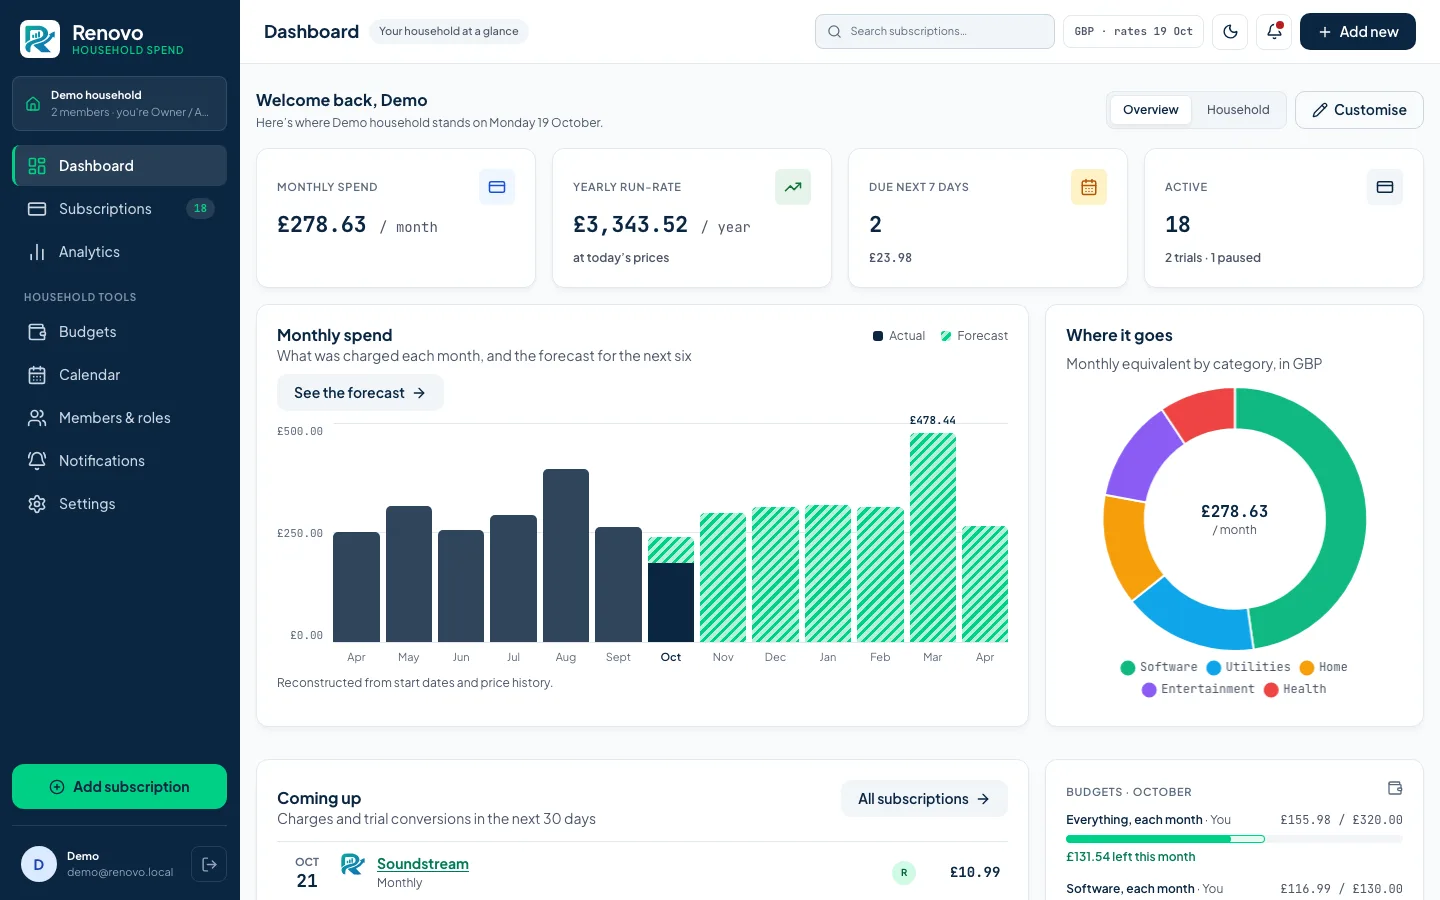
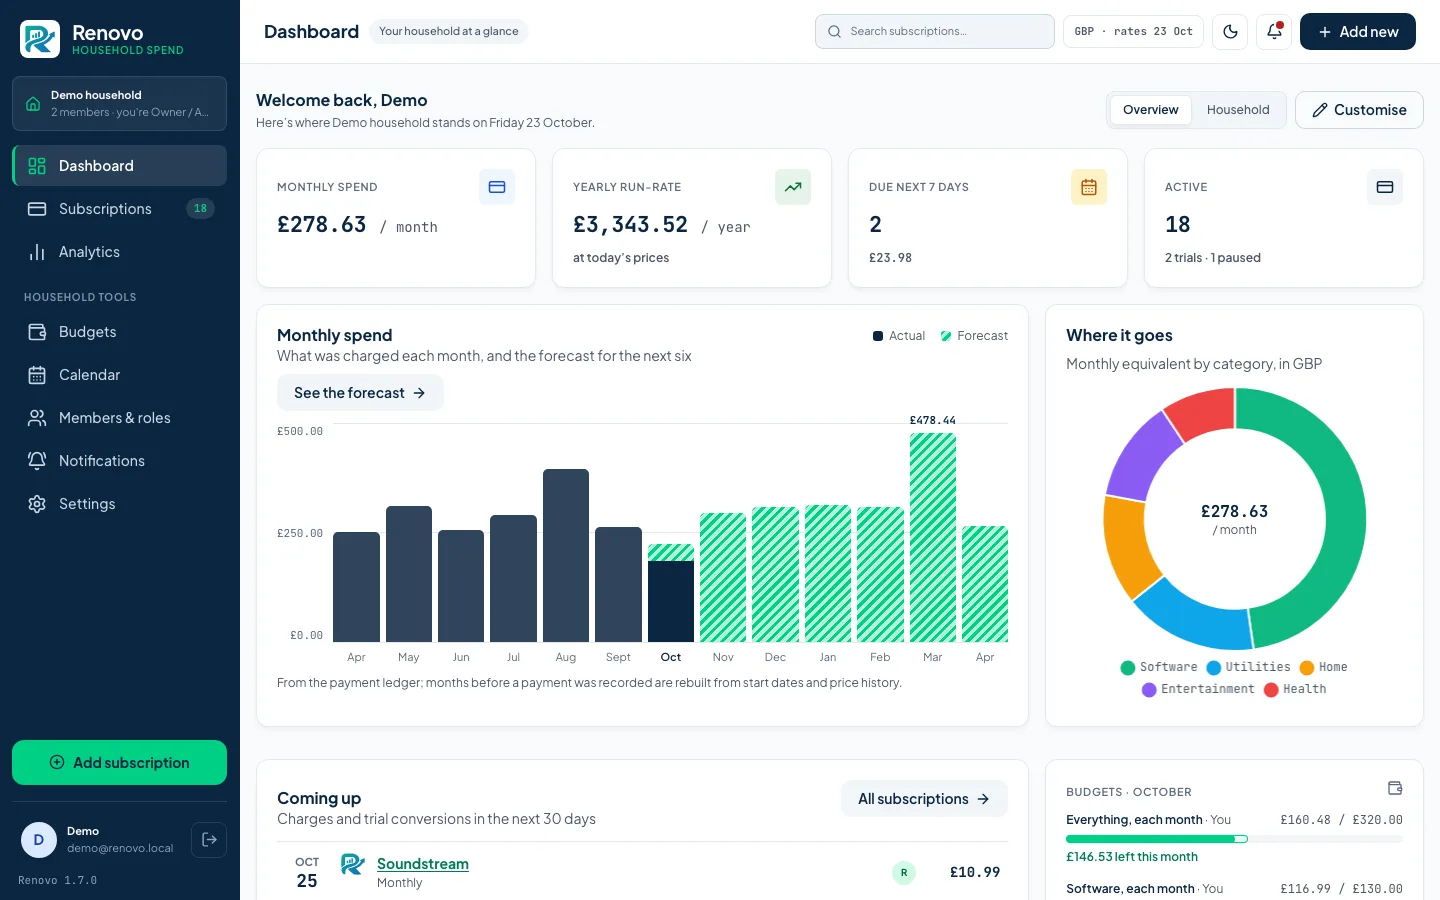
Phase 37: a locked switch looks locked, and the README pictures show the version
Disabled switches are dimmed with a not-allowed cursor and a muted label,
so the Updates switches read as greyed out while checks are off or
UPDATE_CHECK=false; the banner switch's hint says it needs checks on. The
six desktop screenshots are retaken with the release at the foot of the
rail. K95 and K102 fixed; the merge review's other follow-ups recorded as
K96–K101 and K103–K105.

diff --git a/assets/css/components.css b/assets/css/components.css
@@ -1707,6 +1707,24 @@ input[type='checkbox'].toggle:checked::before {
     transform: translate(1rem, -50%);
 }
 
+/*
+ * A switch that cannot be changed — locked by the environment, or waiting on
+ * another switch — reads as off-limits rather than live: dimmed, with the
+ * not-allowed cursor, as a disabled filter chip is. Its label dims with it.
+ */
+input[type='checkbox'].toggle:disabled {
+    cursor: not-allowed;
+    opacity: 0.55;
+}
+
+.choice.toggle-row:has(.toggle:disabled) {
+    cursor: not-allowed;
+}
+
+.choice.toggle-row:has(.toggle:disabled) .choice-title {
+    color: var(--muted);
+}
+
 @media (forced-colors: active) {
     input[type='checkbox'].toggle::before {
         background: CanvasText;

diff --git a/translations/en.php b/translations/en.php
@@ -2714,7 +2714,8 @@ return [
     'flash.updates_up_to_date' => 'Checked. This is the latest release.',
     'settings.status_version' => 'Version',
     'settings.update_banner' => 'Show a banner on the dashboard when an update is available',
-    'settings.update_banner_hint' => 'Instance administrators only. Each can dismiss it until the next release.',
+    'settings.update_banner_hint' =>
+        'Instance administrators only, once update checks are on. Each can dismiss it until the next release.',
     'settings.update_check' => 'Check for new versions',
     'settings.update_check_hint' =>
         'Once a day, Renovo asks GitHub for its latest release. GitHub sees your server\'s IP address. '

diff --git a/docs/phases/known-issues.md b/docs/phases/known-issues.md
@@ -142,3 +142,19 @@ table below it:
 | K92 | MINOR | Docs | Three API behaviour changes `docs/api.md` describes are missing from the OpenAPI field descriptions: an impossible subscription date (next payment, start, trial end, the term dates) is now a `422`; pausing through `PUT` keeps the payment date the catch-up moved the row to; `anchor_day` is kept when the date sits on the day a later anchor clamps to. | `openapi/openapi.yaml:1323,1371,1465` | Phase 35 | Open |
 | K93 | MINOR | Money | Nothing tests that a varying bill's average skips actuals recorded in another currency: with the check removed the suite still passes, though a row changed from EUR to GBP would average its €60.00 bills as £60.00 and offer, and write, that as the new estimate. Reproduced. | `src/Domain/ActualsAverage.php:50-52`, `src/Service/ChargeService.php:497-506`, `tests/Integration/VaryingBillTest.php` | Phase 35 | Fixed (Phase 36) |
 | K94 | MINOR | Tests | Nothing tests that a refused payment on one subscription does not reopen on another's money page: with the subscription check removed from `takeFailedPayment()` the whole suite still passes, though row A's typed date, amount and note would then fill row B's "Add a payment" form. Reproduced. | `src/Controller/SubscriptionMoneyController.php:208-215`, `src/Controller/SubscriptionChargeController.php:159`, `tests/Functional/ContractTermsScreensTest.php` | Phase 35 | Open |
+
+## Found in Phase 37 (merge review at eeed3e8, 2026-10-23)
+
+| # | Severity | Area | Issue | Where | Since | Status |
+| --- | --- | --- | --- | --- | --- | --- |
+| K95 | MAJOR | UI | On Settings → Instance → Updates, a disabled switch looks exactly like a live one: same colours, pointer cursor. `input[type='checkbox'].toggle` has no `:disabled` rule. With update checks off, the default, "Show a banner on the dashboard" is drawn as a full accent "on" switch that does nothing when clicked. With `UPDATE_CHECK=false` both switches look live, although the brief says the switch is greyed out. | `assets/css/components.css:1673-1685`, `templates/settings/instance.twig:82-84,96-98` | Phase 37 | Fixed (Phase 37) |
+| K96 | MINOR | UI | If a newer release is found while an instance admin has the dashboard open, Dismiss hides the release they never saw. The banner showed "Renovo 1.8.0 is available"; the scheduler or another admin's check then stored 1.9.0; Dismiss recorded 1.9.0, so no banner appears until 1.9.1. Dismiss stores whatever is latest when the POST arrives, and the form posts no version. Reproduced on Postgres and MySQL. | `src/Service/Update/UpdateCheckService.php:211-216`, `src/Controller/DashboardController.php:125-127`, `templates/dashboard/_update_banner.twig:28-31` | Phase 37 | Open |
+| K97 | MINOR | Performance | With `HTTP_TIMEOUT_SECONDS=0`, the update check, meant to give up after 5 s, has no time limit, so the lazy check on an instance admin's dashboard can hang the page for as long as GitHub stalls. With `HTTP_CONNECT_TIMEOUT_SECONDS=0` alone, an unreachable GitHub holds the page for up to 300 s (curl's default) instead of 3 s. `narrowedTo()` keeps a configured 0 through `min()`. Reproduced. | `src/Http/HttpClientOptions.php:41-42`, `config/container.php:221`, `config/settings.php:82-83` | Phase 37 | Open |
+| K98 | MINOR | UI | While update checks are off, the "Show a banner on the dashboard" switch is drawn on (its stored default) although no banner can appear, while the "Check for new versions" switch, when locked by `UPDATE_CHECK=false`, is drawn off. Needs a decision: what a locked switch shows (the stored preference, dimmed / off while locked, as the check switch is). | `templates/settings/instance.twig:96-98`, `tests/Functional/UpdateScreensTest.php:369` | Phase 37 | Open |
+| K99 | MINOR | UI | The version at the foot of the rail and of the narrow-screen sheet sets the whole "Renovo 1.7.0" in the figures font, the word included; the Instance status card sets only "1.7.0" in it. `.num` sits on the element holding the translated string. | `templates/partials/version.twig:13,15`, `translations/en.php:2723` | Phase 37 | Open |
+| K100 | MINOR | UI | When an instance admin dismisses the "new version available" banner with the keyboard, htmx removes the banner with its focused Dismiss button: focus drops to the top of the page and screen readers are told nothing, since the `role="status"` region goes rather than updates. The same kind of failure as K18, in a place it doesn't list. | `templates/dashboard/_update_banner.twig:29-32`, `src/Controller/DashboardController.php:125-134` | Phase 37 | Open |
+| K101 | MINOR | Docs | The docs say an image built from a commit shows its short commit id beside the version ("1.7.0 (a1b2c3d)"), from the `RENOVO_BUILD` build argument, but no page says how to pass it and `docker-compose.yml` doesn't forward it. An operator building an edge image with the documented `docker compose up -d --build` gets "1.7.0" alone. | `docs/configuration.md:26`, `docs/operations.md:139`, `docs/install.md`, `docker-compose.yml:27-30`, `docker/php/Dockerfile:107-112` | Phase 37 | Open |
+| K102 | MINOR | Docs | Every signed-in page now shows "Renovo 1.7.0" at the foot of the sidebar, below the user card, but the README's six desktop screenshots predate it and end at the user card. `docs/development.md` says a phase that visibly changes a pictured screen refreshes its picture. The phone-width picture is unaffected (the version is inside the closed More sheet). | `docs/images/dashboard.webp`, `docs/images/dashboard-dark.webp`, `docs/images/subscriptions.webp`, `docs/images/forecast.webp`, `docs/images/budgets.webp`, `docs/images/calendar.webp`, `templates/partials/rail.twig:75`, `docs/development.md:563` | Phase 37 | Fixed (Phase 37) |
+| K103 | MINOR | Tests | Four of the update check's guards have no test that would fail without them; with all four removed together the full suite still passed (3472 tests). Unguarded: a release whose `published_at` can't be read would throw out of the check (failing the admin's dashboard and `reminders:run`); a semver tag over 32 characters (`v1.8.0-alpha.beta.gamma.delta.epsilon`) would be stored and overflow `users.dismissed_update_version` on Dismiss; a page on `https://github.com.evil.example/…` or `http://github.com/…` would be linked; the dashboard could drop the banner whenever the page isn't linked. Reproduced. | `src/Service/Update/UpdateCheckService.php:331,353-357,373`, `templates/dashboard/index.twig:7`, `tests/Integration/UpdateCheckServiceTest.php:350-363`, `tests/Functional/UpdateScreensTest.php:175-185` | Phase 37 | Open |
+| K104 | MINOR | Tests | The update check's production wiring is never exercised. No test runs the `reminders:run` update step or `bin/console updates:check` (its "disabled" message, its exit 1 on failure, that it asks nothing with checks off), and nothing asserts the container gives the service the narrowed client (5 s, 3 s connect, 64 KB) rather than the instance's 10 s / 5 s / 2 MB; every functional test replaces the binding. | `bin/console:76-79,116-136`, `config/container.php:218-226`, `tests/Functional/UpdateScreensTest.php:420` | Phase 37 | Open |
+| K105 | MINOR | Tests | `testConfigReadsTheEnvironment` fails when `UPDATE_CHECK` is set in the process environment (`UPDATE_CHECK=false vendor/bin/phpunit` → "Failed asserting that false is true"): `fromEnvironment()` still reads `getenv()` after the test unsets `$_ENV`. Its `finally` unsets `$_ENV` rather than restoring it, and only `false` is tested of `0`/`false`/`no`/`off`. Reproduced. | `tests/Integration/UpdateCheckServiceTest.php:264-281`, `src/Service/Update/UpdateCheckConfig.php:34-45` | Phase 37 | Open |

diff --git a/docs/phases/PHASE-37.md b/docs/phases/PHASE-37.md
@@ -182,6 +182,12 @@ Found while starting it:
   it. Fixed here, with `InstanceSettingsServiceTest`; recorded under *Fixed*.
 - **`/hotfix` writes `VERSION` too** (found in the merge review), as `/release`
   does, so a patch release reports its own number.
+- **Two of the merge review's follow-ups are fixed here** (K95, K102): a
+  disabled switch is dimmed with a not-allowed cursor, so a locked Updates
+  switch reads as greyed out as §E says, and the README's six desktop
+  screenshots are retaken with the version at the foot of the rail. The
+  phone-width picture is unchanged: there the version is inside the closed
+  More sheet. The rest are recorded as K96–K101 and K103–K105.
 
 ## Status
 
